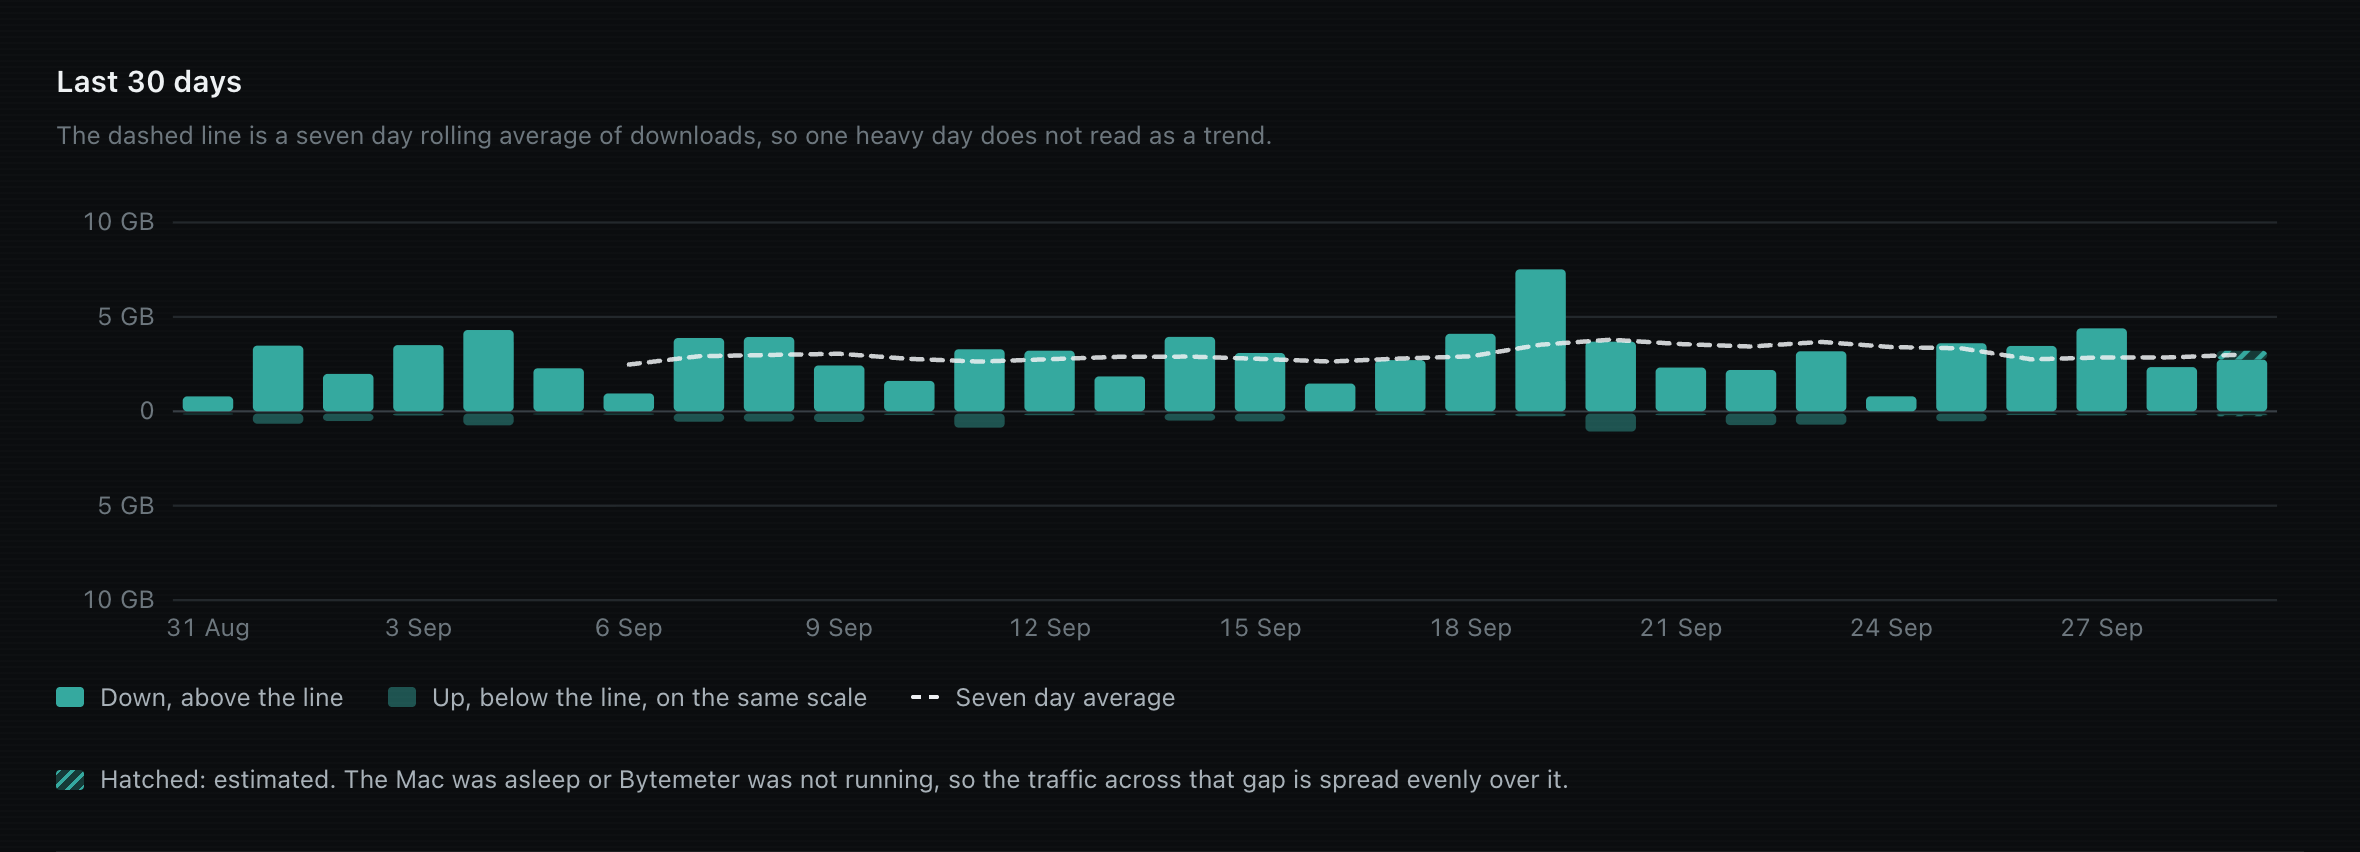
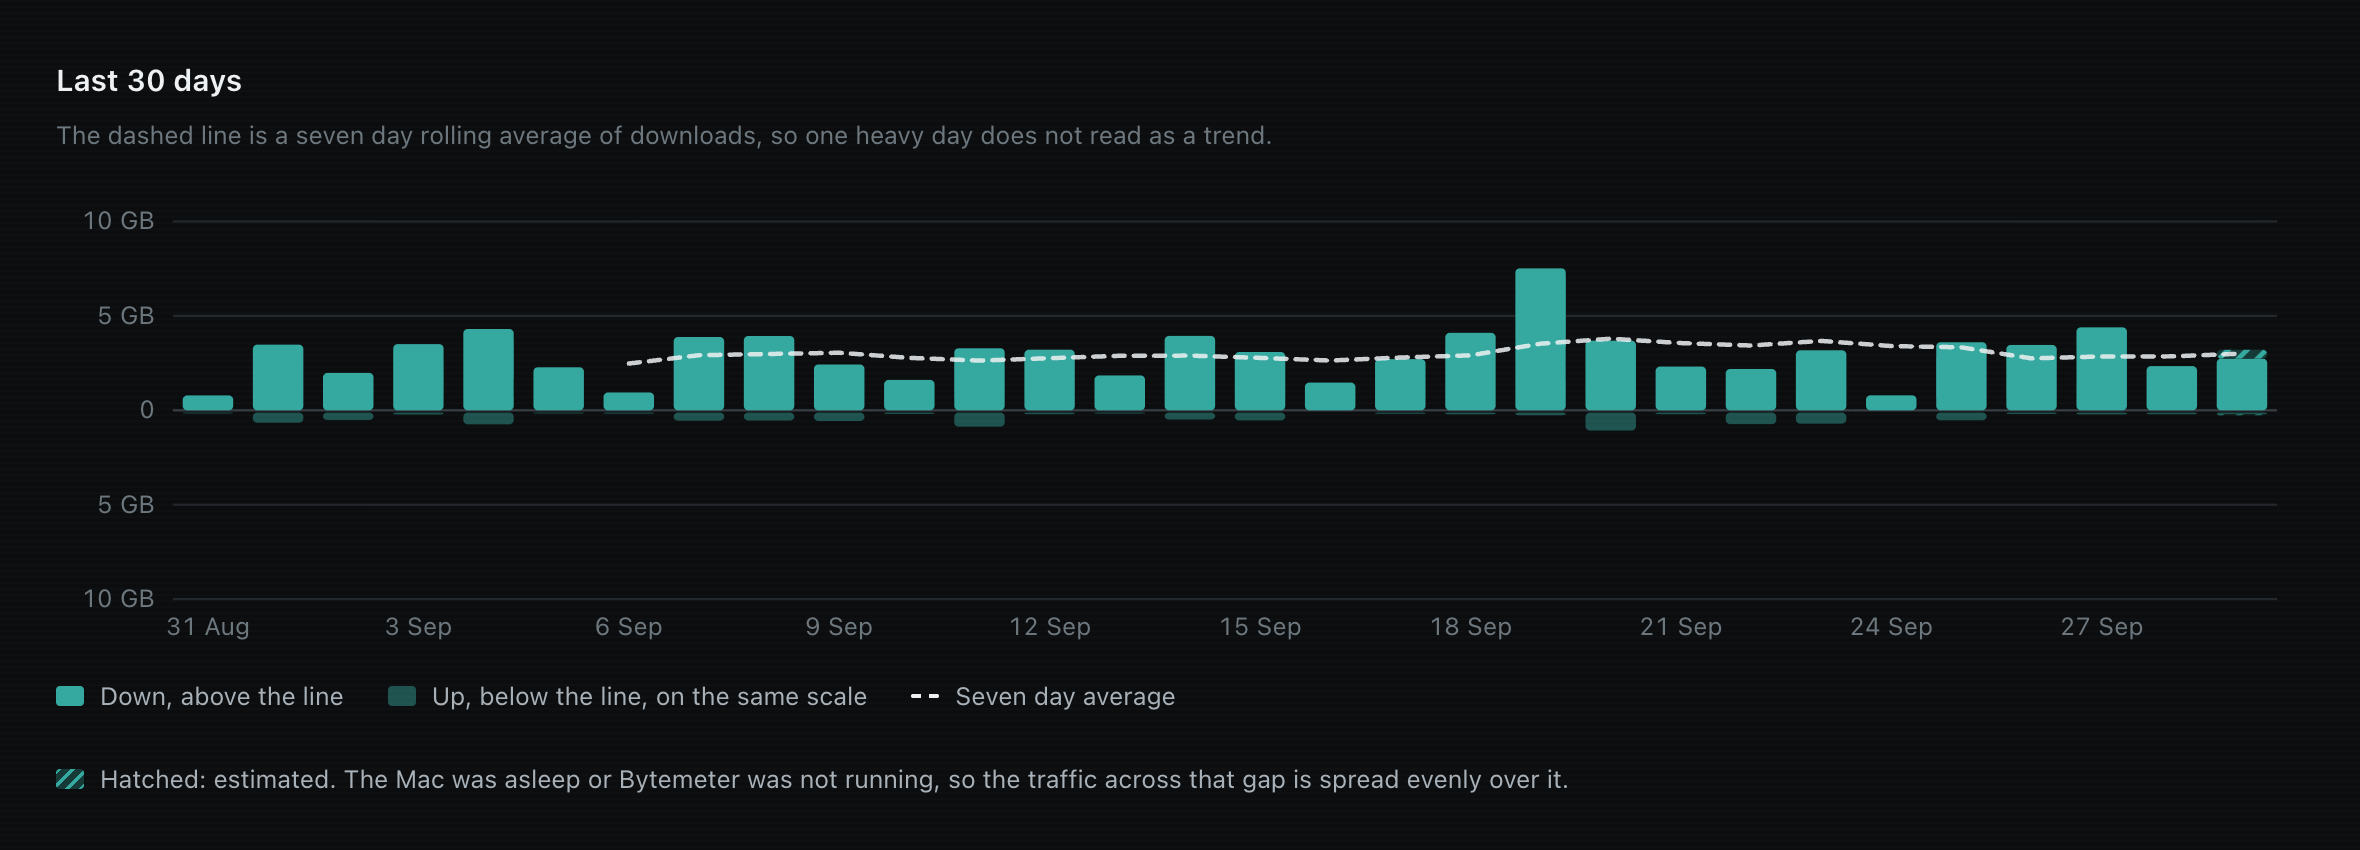
README screenshots redrawn from the final build

diff --git a/MAINTENANCE.md b/MAINTENANCE.md
@@ -232,9 +232,9 @@ python3 Scripts/make_demo_db.py /tmp/bytemeter-demo --now 2026-09-29T21:30 --for
   --user-data-dir="$(mktemp -d)" --hide-scrollbars --force-device-scale-factor=2 \
   --window-size=1400,3600 --screenshot=/tmp/bytemeter-demo/page.png \
   file:///tmp/bytemeter-demo/dashboard.html
-sips -c 1896 2360 --cropOffset 32 220   /tmp/bytemeter-demo/page.png --out docs/dashboard.png
-sips -c 852 2360  --cropOffset 1934 220 /tmp/bytemeter-demo/page.png --out docs/thirty-days.png
-sips -c 878 2336  --cropOffset 2788 232 /tmp/bytemeter-demo/page.png --out docs/heatmap.png
+sips -c 1898 2360 --cropOffset 32 220   /tmp/bytemeter-demo/page.png --out docs/dashboard.png
+sips -c 850 2360  --cropOffset 1936 220 /tmp/bytemeter-demo/page.png --out docs/thirty-days.png
+sips -c 880 2336  --cropOffset 2788 232 /tmp/bytemeter-demo/page.png --out docs/heatmap.png
 sips -s format png -Z 256 Resources/AppIcon.icns --out docs/icon.png
 ```
 
